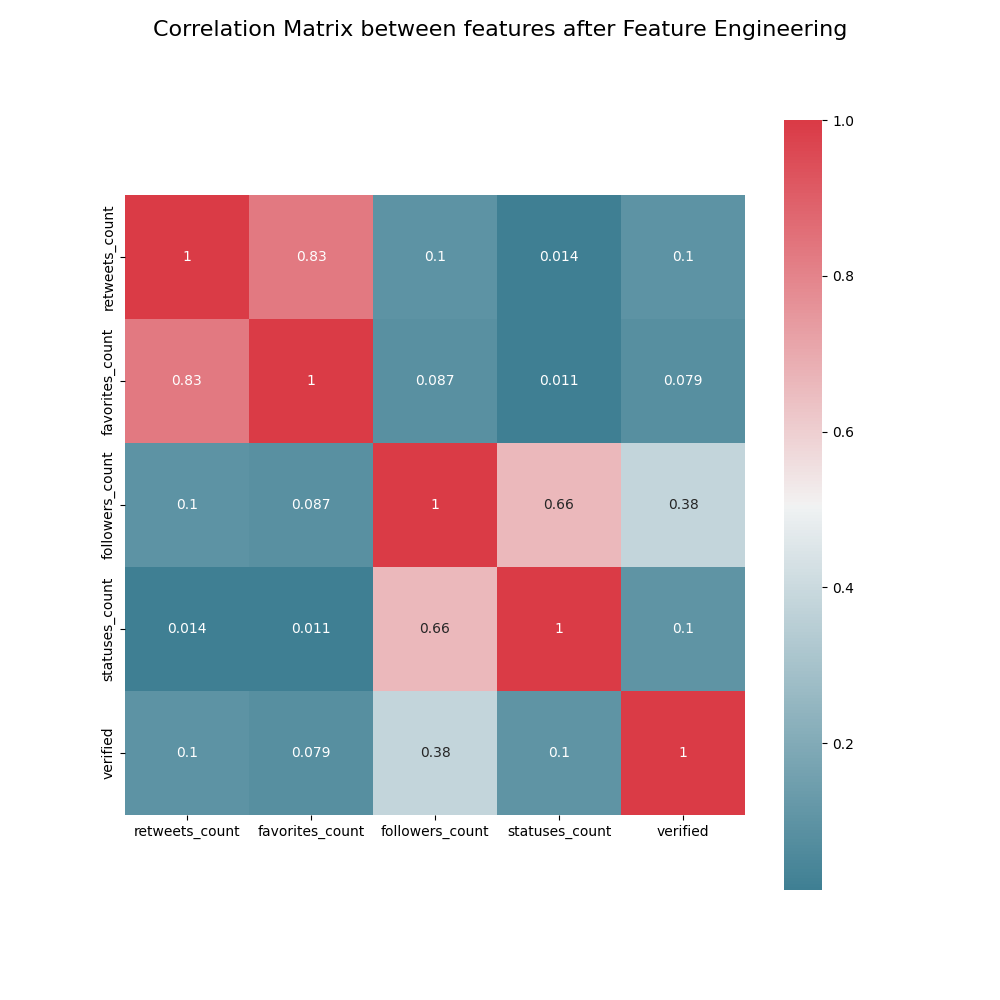
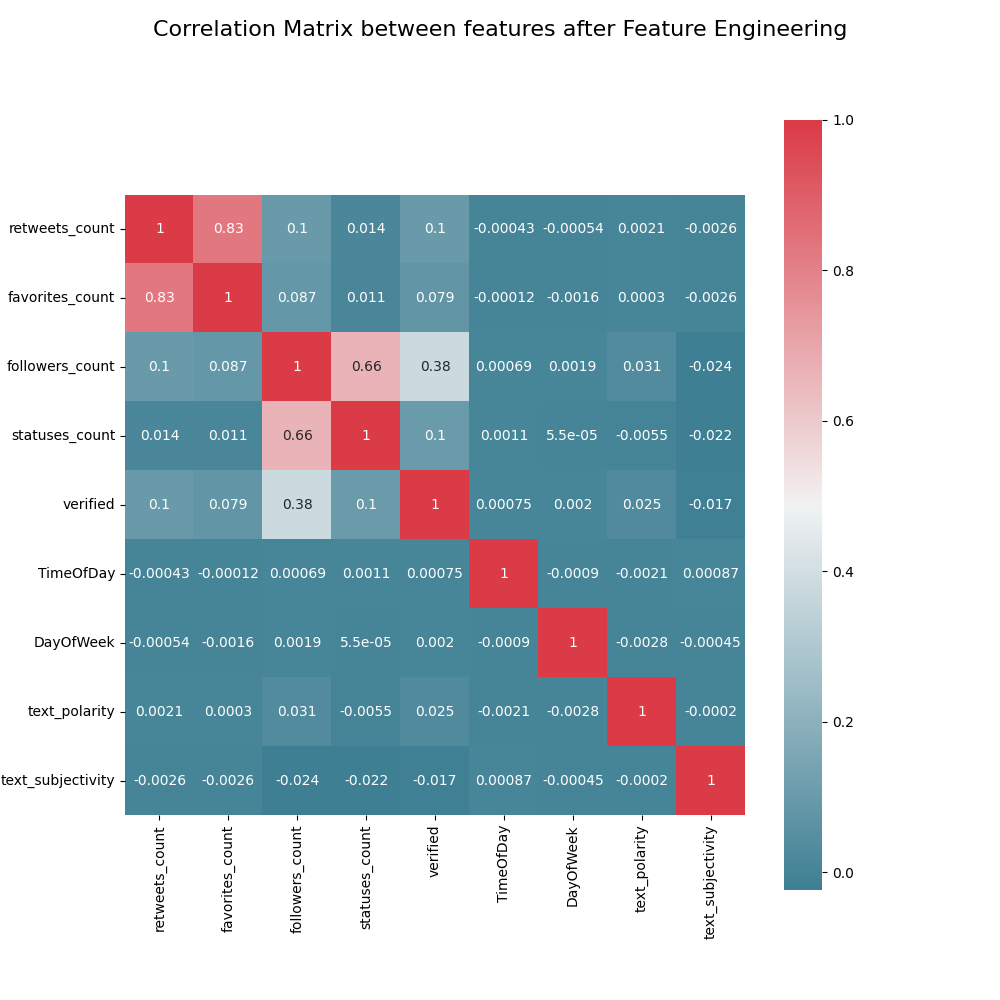
text_polarity

diff --git a/code/pipeline.py b/code/pipeline.py
@@ -4,7 +4,8 @@
 ## Author: Paul Houssel
 ## Last Updated: Nov 19 2022, 21:24
 ##################################################
-
+from textblob import TextBlob
+from textblob_fr import PatternTagger, PatternAnalyzer
 import numpy as np
 
 def unixSec2TOD(time : int):
@@ -39,7 +40,6 @@ def featurePipeline(X_train, X_test, test, drop=True):
 		X_test["mentions"] = np.where(X_test["mentions"]=="[]",0 , 1)
 		X_test = X_test.drop(['hashtags'], axis=1)
 		X_test = X_test.drop(['urls'], axis=1)
-		X_test = X_test.drop(['text'], axis=1)
 
 		X_test = X_test.drop(['mentions'], axis=1)
 
@@ -48,6 +48,9 @@ def featurePipeline(X_train, X_test, test, drop=True):
 		# add one to ignore 0 cases, could be problematic for the log normalisation
 		X_test["followers_count"] += 1
 		X_test["followers_count"] = np.log(X_test["followers_count"])
+		X_test["text_polarity"] = X_test["text"].apply(lambda text: TextBlob(text, pos_tagger=PatternTagger(), analyzer=PatternAnalyzer()).sentiment[0])
+		X_test["text_subjectivity"] = X_test["text"].apply(lambda text: TextBlob(text, pos_tagger=PatternTagger(), analyzer=PatternAnalyzer()).sentiment[1])
+		X_test = X_test.drop(['text'], axis=1)
 
 
 	# We remove the actual number of retweets from our features since it is the value that we are trying to predict
@@ -67,8 +70,9 @@ def featurePipeline(X_train, X_test, test, drop=True):
 	X_train = X_train.drop(['hashtags'], axis=1)
 	X_train = X_train.drop(['mentions'], axis=1)
 
+	X_train["text_polarity"] = X_train["text"].apply(lambda text: TextBlob(text, pos_tagger=PatternTagger(), analyzer=PatternAnalyzer()).sentiment[0])
+	X_train["text_subjectivity"] = X_train["text"].apply(lambda text: TextBlob(text, pos_tagger=PatternTagger(), analyzer=PatternAnalyzer()).sentiment[1])
 	X_train = X_train.drop(['text'], axis=1)
-
 	X_train = X_train.drop(['urls'], axis=1)
 
 	return X_train, X_test

diff --git a/code/correlation.py b/code/correlation.py
@@ -66,7 +66,11 @@ for name, values in train_data_engineered.iteritems():
         print("Computing {}".format(name))
         #PLot features by label, evolution of correlation 
         f, ax = plt.subplots(figsize=(10, 10))
-        plt.plot(train_data_engineered[str(name)], train_data_engineered["retweets_count"], 'bo')
+
+
+
+        #plt.plot(train_data_engineered[str(name)], train_data_engineered["retweets_count"], 'bo')
+        plt.scatter(x=train_data_engineered[str(name)], y=train_data_engineered["retweets_count"])
         f.suptitle("Correlation Matrix between {0} and the number of retweets in the orginal Dataset".format(name), fontsize=16)
         plt.xlabel(name)
         plt.ylabel('Number of retweets')

diff --git a/code/normalisation.py b/code/normalisation.py
@@ -72,6 +72,12 @@ plt.savefig("../figs/feature-engineering/followers_count-density-original.png")
 
 f, ax = plt.subplots(figsize=(10, 8))
 ax.ticklabel_format(style="plain")
+f.suptitle('Density Distribution of the text polarity', fontsize=16)
+train_data_engineered["text_polarity"].plot.density()
+plt.savefig("../figs/feature-engineering/text_polarity-density-original.png")
+
+f, ax = plt.subplots(figsize=(10, 8))
+ax.ticklabel_format(style="plain")
 f.suptitle('Density Distribution of the normalised Number of Followers, using Log Scaling', fontsize=16)
 train_data_engineered["followers_count"].plot.density()
 plt.savefig("../figs/feature-engineering/followers_count-density-normalised-log-scaling.png")
